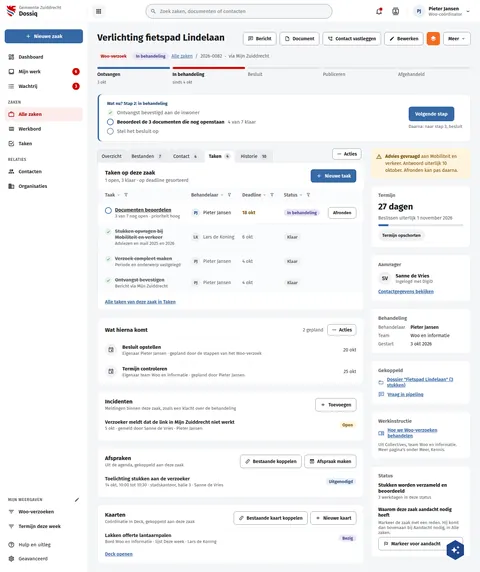
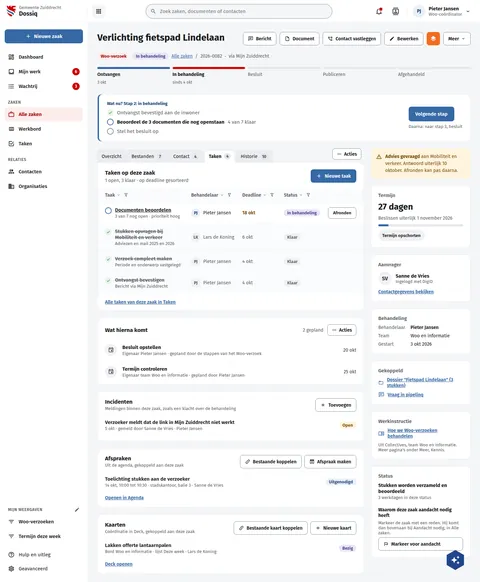
fix(screens): DqZaakTaken's Afspraken card links to the agenda under its rows
Live keeps "Openen in Agenda" on the appointments card, and the board left
it out. The board now draws it under the rows, as Kaarten draws "Deck
openen" (users keep features).

Assisted-by: ClaudeCode:claude-opus-5-5

diff --git a/preview/screens/boards/DqZaakTaken.html b/preview/screens/boards/DqZaakTaken.html
@@ -299,7 +299,7 @@ a{color:var(--sc-primary, #3669a5)}a:hover{color:var(--sc-primary-deep, #234a78)
                 </div>
               
             </section>
-<section style="background: #ffffff; border: 1px solid var(--sc-work-line, #e4e6ea); border-radius: 12px; padding: 20px 22px; display: flex; flex-direction: column; gap: 12px"><div style="display: flex; flex-wrap: wrap; justify-content: space-between; align-items: flex-start; gap: 10px"><div style="display: flex; flex-direction: column; gap: 2px; min-width: 0"><h2 style="margin: 0; font-size: 17px; font-weight: 700">Incidenten</h2><span style="font-size: 13px; color: var(--sc-work-muted, #5e6168)">Meldingen binnen deze zaak, zoals een klacht over de behandeling</span></div><button type="button" style="display: inline-flex; align-items: center; gap: 8px; height: 40px; padding: 0 14px; border-radius: 8px; border: 1px solid var(--sc-work-field, #828a95); background: #ffffff; color: var(--sc-work-ink, #1b1c1d); font: 600 14px var(--sc-font, 'Fira Sans'), sans-serif; white-space: nowrap"><svg width="16" height="16" viewbox="0 0 24 24" fill="currentColor" aria-hidden="true"><path d="M19,13H13V19H11V13H5V11H11V5H13V11H19V13Z"></path></svg>Toevoegen</button></div><ul style="margin: 0; padding: 0; list-style: none"><li style="display: flex; flex-wrap: wrap; gap: 6px 16px; align-items: center; padding: 10px 0; border-top: 1px solid var(--sc-work-soft, #eef0f3)"><span style="flex: 1 1 240px; display: flex; flex-direction: column; gap: 2px"><strong style="font-size: 15px; font-weight: 600">Verzoeker meldt dat de link in Mijn Zuiddrecht niet werkt</strong><span style="font-size: 13px; color: var(--sc-work-muted, #5e6168)">5 okt · gemeld door Sanne de Vries · Pieter Jansen</span></span><span style="padding: 3px 10px; border-radius: 12px; background: #fff4de; color: #7a4f00; font-size: 13px; font-weight: 600; white-space: nowrap">Open</span></li></ul></section><section style="background: #ffffff; border: 1px solid var(--sc-work-line, #e4e6ea); border-radius: 12px; padding: 20px 22px; display: flex; flex-direction: column; gap: 12px"><div style="display: flex; flex-wrap: wrap; justify-content: space-between; align-items: flex-start; gap: 10px"><div style="display: flex; flex-direction: column; gap: 2px; min-width: 0"><h2 style="margin: 0; font-size: 17px; font-weight: 700">Afspraken</h2><span style="font-size: 13px; color: var(--sc-work-muted, #5e6168)">Uit de agenda, gekoppeld aan deze zaak</span></div><span style="display: flex; flex-wrap: wrap; gap: 8px"><button type="button" style="display: inline-flex; align-items: center; gap: 8px; height: 40px; padding: 0 14px; border-radius: 8px; border: 1px solid var(--sc-work-field, #828a95); background: #ffffff; color: var(--sc-work-ink, #1b1c1d); font: 600 14px var(--sc-font, 'Fira Sans'), sans-serif; white-space: nowrap"><svg width="16" height="16" viewbox="0 0 24 24" fill="currentColor" aria-hidden="true"><path d="M10.59,13.41C11,13.8 11,14.44 10.59,14.83C10.2,15.22 9.56,15.22 9.17,14.83C7.22,12.88 7.22,9.71 9.17,7.76V7.76L12.71,4.22C14.66,2.27 17.83,2.27 19.78,4.22C21.73,6.17 21.73,9.34 19.78,11.29L18.29,12.78C18.3,11.96 18.17,11.14 17.89,10.36L18.36,9.88C19.54,8.71 19.54,6.81 18.36,5.64C17.19,4.46 15.29,4.46 14.12,5.64L10.59,9.17C9.41,10.34 9.41,12.24 10.59,13.41M13.41,9.17C13.8,8.78 14.44,8.78 14.83,9.17C16.78,11.12 16.78,14.29 14.83,16.24V16.24L11.29,19.78C9.34,21.73 6.17,21.73 4.22,19.78C2.27,17.83 2.27,14.66 4.22,12.71L5.71,11.22C5.7,12.04 5.83,12.86 6.11,13.65L5.64,14.12C4.46,15.29 4.46,17.19 5.64,18.36C6.81,19.54 8.71,19.54 9.88,18.36L13.41,14.83C14.59,13.66 14.59,11.76 13.41,10.59C13,10.2 13,9.56 13.41,9.17Z"></path></svg>Bestaande koppelen</button><button type="button" style="display: inline-flex; align-items: center; gap: 8px; height: 40px; padding: 0 14px; border-radius: 8px; border: 1px solid var(--sc-work-field, #828a95); background: #ffffff; color: var(--sc-work-ink, #1b1c1d); font: 600 14px var(--sc-font, 'Fira Sans'), sans-serif; white-space: nowrap"><svg width="16" height="16" viewbox="0 0 24 24" fill="currentColor" aria-hidden="true"><path d="M19 19V8H5V19H19M16 1H18V3H19C20.11 3 21 3.9 21 5V19C21 20.11 20.11 21 19 21H5C3.89 21 3 20.1 3 19V5C3 3.89 3.89 3 5 3H6V1H8V3H16V1M11 9.5H13V12.5H16V14.5H13V17.5H11V14.5H8V12.5H11V9.5Z"></path></svg>Afspraak maken</button></span></div><ul style="margin: 0; padding: 0; list-style: none"><li style="display: flex; flex-wrap: wrap; gap: 6px 16px; align-items: center; padding: 10px 0; border-top: 1px solid var(--sc-work-soft, #eef0f3)"><span style="flex: 1 1 240px; display: flex; flex-direction: column; gap: 2px"><strong style="font-size: 15px; font-weight: 600">Toelichting stukken aan de verzoeker</strong><span style="font-size: 13px; color: var(--sc-work-muted, #5e6168)">14 okt, 10:00 tot 10:30 · stadskantoor, balie 3 · Sanne de Vries</span></span><span style="padding: 3px 10px; border-radius: 12px; background: var(--sc-primary-light, #eaf0f7); color: var(--sc-primary-deep, #234a78); font-size: 13px; font-weight: 600; white-space: nowrap">Uitgenodigd</span></li></ul></section><section style="background: #ffffff; border: 1px solid var(--sc-work-line, #e4e6ea); border-radius: 12px; padding: 20px 22px; display: flex; flex-direction: column; gap: 12px"><div style="display: flex; flex-wrap: wrap; justify-content: space-between; align-items: flex-start; gap: 10px"><div style="display: flex; flex-direction: column; gap: 2px; min-width: 0"><h2 style="margin: 0; font-size: 17px; font-weight: 700">Kaarten</h2><span style="font-size: 13px; color: var(--sc-work-muted, #5e6168)">Coördinatie in Deck, gekoppeld aan deze zaak</span></div><span style="display: flex; flex-wrap: wrap; gap: 8px"><button type="button" style="display: inline-flex; align-items: center; gap: 8px; height: 40px; padding: 0 14px; border-radius: 8px; border: 1px solid var(--sc-work-field, #828a95); background: #ffffff; color: var(--sc-work-ink, #1b1c1d); font: 600 14px var(--sc-font, 'Fira Sans'), sans-serif; white-space: nowrap"><svg width="16" height="16" viewbox="0 0 24 24" fill="currentColor" aria-hidden="true"><path d="M10.59,13.41C11,13.8 11,14.44 10.59,14.83C10.2,15.22 9.56,15.22 9.17,14.83C7.22,12.88 7.22,9.71 9.17,7.76V7.76L12.71,4.22C14.66,2.27 17.83,2.27 19.78,4.22C21.73,6.17 21.73,9.34 19.78,11.29L18.29,12.78C18.3,11.96 18.17,11.14 17.89,10.36L18.36,9.88C19.54,8.71 19.54,6.81 18.36,5.64C17.19,4.46 15.29,4.46 14.12,5.64L10.59,9.17C9.41,10.34 9.41,12.24 10.59,13.41M13.41,9.17C13.8,8.78 14.44,8.78 14.83,9.17C16.78,11.12 16.78,14.29 14.83,16.24V16.24L11.29,19.78C9.34,21.73 6.17,21.73 4.22,19.78C2.27,17.83 2.27,14.66 4.22,12.71L5.71,11.22C5.7,12.04 5.83,12.86 6.11,13.65L5.64,14.12C4.46,15.29 4.46,17.19 5.64,18.36C6.81,19.54 8.71,19.54 9.88,18.36L13.41,14.83C14.59,13.66 14.59,11.76 13.41,10.59C13,10.2 13,9.56 13.41,9.17Z"></path></svg>Bestaande kaart koppelen</button><button type="button" style="display: inline-flex; align-items: center; gap: 8px; height: 40px; padding: 0 14px; border-radius: 8px; border: 1px solid var(--sc-work-field, #828a95); background: #ffffff; color: var(--sc-work-ink, #1b1c1d); font: 600 14px var(--sc-font, 'Fira Sans'), sans-serif; white-space: nowrap"><svg width="16" height="16" viewbox="0 0 24 24" fill="currentColor" aria-hidden="true"><path d="M19,13H13V19H11V13H5V11H11V5H13V11H19V13Z"></path></svg>Nieuwe kaart</button></span></div><ul style="margin: 0; padding: 0; list-style: none"><li style="display: flex; flex-wrap: wrap; gap: 6px 16px; align-items: center; padding: 10px 0; border-top: 1px solid var(--sc-work-soft, #eef0f3)"><span style="flex: 1 1 240px; display: flex; flex-direction: column; gap: 2px"><strong style="font-size: 15px; font-weight: 600">Lakken offerte lantaarnpalen</strong><span style="font-size: 13px; color: var(--sc-work-muted, #5e6168)">Bord Woo en informatie · lijst Deze week · Lars de Koning</span></span><span style="padding: 3px 10px; border-radius: 12px; background: #e8e6f6; color: #4a3f8f; font-size: 13px; font-weight: 600; white-space: nowrap">Bezig</span></li></ul><a href="#" style="font-size: 14px; font-weight: 600">Deck openen</a></section>
+<section style="background: #ffffff; border: 1px solid var(--sc-work-line, #e4e6ea); border-radius: 12px; padding: 20px 22px; display: flex; flex-direction: column; gap: 12px"><div style="display: flex; flex-wrap: wrap; justify-content: space-between; align-items: flex-start; gap: 10px"><div style="display: flex; flex-direction: column; gap: 2px; min-width: 0"><h2 style="margin: 0; font-size: 17px; font-weight: 700">Incidenten</h2><span style="font-size: 13px; color: var(--sc-work-muted, #5e6168)">Meldingen binnen deze zaak, zoals een klacht over de behandeling</span></div><button type="button" style="display: inline-flex; align-items: center; gap: 8px; height: 40px; padding: 0 14px; border-radius: 8px; border: 1px solid var(--sc-work-field, #828a95); background: #ffffff; color: var(--sc-work-ink, #1b1c1d); font: 600 14px var(--sc-font, 'Fira Sans'), sans-serif; white-space: nowrap"><svg width="16" height="16" viewbox="0 0 24 24" fill="currentColor" aria-hidden="true"><path d="M19,13H13V19H11V13H5V11H11V5H13V11H19V13Z"></path></svg>Toevoegen</button></div><ul style="margin: 0; padding: 0; list-style: none"><li style="display: flex; flex-wrap: wrap; gap: 6px 16px; align-items: center; padding: 10px 0; border-top: 1px solid var(--sc-work-soft, #eef0f3)"><span style="flex: 1 1 240px; display: flex; flex-direction: column; gap: 2px"><strong style="font-size: 15px; font-weight: 600">Verzoeker meldt dat de link in Mijn Zuiddrecht niet werkt</strong><span style="font-size: 13px; color: var(--sc-work-muted, #5e6168)">5 okt · gemeld door Sanne de Vries · Pieter Jansen</span></span><span style="padding: 3px 10px; border-radius: 12px; background: #fff4de; color: #7a4f00; font-size: 13px; font-weight: 600; white-space: nowrap">Open</span></li></ul></section><section style="background: #ffffff; border: 1px solid var(--sc-work-line, #e4e6ea); border-radius: 12px; padding: 20px 22px; display: flex; flex-direction: column; gap: 12px"><div style="display: flex; flex-wrap: wrap; justify-content: space-between; align-items: flex-start; gap: 10px"><div style="display: flex; flex-direction: column; gap: 2px; min-width: 0"><h2 style="margin: 0; font-size: 17px; font-weight: 700">Afspraken</h2><span style="font-size: 13px; color: var(--sc-work-muted, #5e6168)">Uit de agenda, gekoppeld aan deze zaak</span></div><span style="display: flex; flex-wrap: wrap; gap: 8px"><button type="button" style="display: inline-flex; align-items: center; gap: 8px; height: 40px; padding: 0 14px; border-radius: 8px; border: 1px solid var(--sc-work-field, #828a95); background: #ffffff; color: var(--sc-work-ink, #1b1c1d); font: 600 14px var(--sc-font, 'Fira Sans'), sans-serif; white-space: nowrap"><svg width="16" height="16" viewbox="0 0 24 24" fill="currentColor" aria-hidden="true"><path d="M10.59,13.41C11,13.8 11,14.44 10.59,14.83C10.2,15.22 9.56,15.22 9.17,14.83C7.22,12.88 7.22,9.71 9.17,7.76V7.76L12.71,4.22C14.66,2.27 17.83,2.27 19.78,4.22C21.73,6.17 21.73,9.34 19.78,11.29L18.29,12.78C18.3,11.96 18.17,11.14 17.89,10.36L18.36,9.88C19.54,8.71 19.54,6.81 18.36,5.64C17.19,4.46 15.29,4.46 14.12,5.64L10.59,9.17C9.41,10.34 9.41,12.24 10.59,13.41M13.41,9.17C13.8,8.78 14.44,8.78 14.83,9.17C16.78,11.12 16.78,14.29 14.83,16.24V16.24L11.29,19.78C9.34,21.73 6.17,21.73 4.22,19.78C2.27,17.83 2.27,14.66 4.22,12.71L5.71,11.22C5.7,12.04 5.83,12.86 6.11,13.65L5.64,14.12C4.46,15.29 4.46,17.19 5.64,18.36C6.81,19.54 8.71,19.54 9.88,18.36L13.41,14.83C14.59,13.66 14.59,11.76 13.41,10.59C13,10.2 13,9.56 13.41,9.17Z"></path></svg>Bestaande koppelen</button><button type="button" style="display: inline-flex; align-items: center; gap: 8px; height: 40px; padding: 0 14px; border-radius: 8px; border: 1px solid var(--sc-work-field, #828a95); background: #ffffff; color: var(--sc-work-ink, #1b1c1d); font: 600 14px var(--sc-font, 'Fira Sans'), sans-serif; white-space: nowrap"><svg width="16" height="16" viewbox="0 0 24 24" fill="currentColor" aria-hidden="true"><path d="M19 19V8H5V19H19M16 1H18V3H19C20.11 3 21 3.9 21 5V19C21 20.11 20.11 21 19 21H5C3.89 21 3 20.1 3 19V5C3 3.89 3.89 3 5 3H6V1H8V3H16V1M11 9.5H13V12.5H16V14.5H13V17.5H11V14.5H8V12.5H11V9.5Z"></path></svg>Afspraak maken</button></span></div><ul style="margin: 0; padding: 0; list-style: none"><li style="display: flex; flex-wrap: wrap; gap: 6px 16px; align-items: center; padding: 10px 0; border-top: 1px solid var(--sc-work-soft, #eef0f3)"><span style="flex: 1 1 240px; display: flex; flex-direction: column; gap: 2px"><strong style="font-size: 15px; font-weight: 600">Toelichting stukken aan de verzoeker</strong><span style="font-size: 13px; color: var(--sc-work-muted, #5e6168)">14 okt, 10:00 tot 10:30 · stadskantoor, balie 3 · Sanne de Vries</span></span><span style="padding: 3px 10px; border-radius: 12px; background: var(--sc-primary-light, #eaf0f7); color: var(--sc-primary-deep, #234a78); font-size: 13px; font-weight: 600; white-space: nowrap">Uitgenodigd</span></li></ul><a href="#" style="font-size: 14px; font-weight: 600">Openen in Agenda</a></section><section style="background: #ffffff; border: 1px solid var(--sc-work-line, #e4e6ea); border-radius: 12px; padding: 20px 22px; display: flex; flex-direction: column; gap: 12px"><div style="display: flex; flex-wrap: wrap; justify-content: space-between; align-items: flex-start; gap: 10px"><div style="display: flex; flex-direction: column; gap: 2px; min-width: 0"><h2 style="margin: 0; font-size: 17px; font-weight: 700">Kaarten</h2><span style="font-size: 13px; color: var(--sc-work-muted, #5e6168)">Coördinatie in Deck, gekoppeld aan deze zaak</span></div><span style="display: flex; flex-wrap: wrap; gap: 8px"><button type="button" style="display: inline-flex; align-items: center; gap: 8px; height: 40px; padding: 0 14px; border-radius: 8px; border: 1px solid var(--sc-work-field, #828a95); background: #ffffff; color: var(--sc-work-ink, #1b1c1d); font: 600 14px var(--sc-font, 'Fira Sans'), sans-serif; white-space: nowrap"><svg width="16" height="16" viewbox="0 0 24 24" fill="currentColor" aria-hidden="true"><path d="M10.59,13.41C11,13.8 11,14.44 10.59,14.83C10.2,15.22 9.56,15.22 9.17,14.83C7.22,12.88 7.22,9.71 9.17,7.76V7.76L12.71,4.22C14.66,2.27 17.83,2.27 19.78,4.22C21.73,6.17 21.73,9.34 19.78,11.29L18.29,12.78C18.3,11.96 18.17,11.14 17.89,10.36L18.36,9.88C19.54,8.71 19.54,6.81 18.36,5.64C17.19,4.46 15.29,4.46 14.12,5.64L10.59,9.17C9.41,10.34 9.41,12.24 10.59,13.41M13.41,9.17C13.8,8.78 14.44,8.78 14.83,9.17C16.78,11.12 16.78,14.29 14.83,16.24V16.24L11.29,19.78C9.34,21.73 6.17,21.73 4.22,19.78C2.27,17.83 2.27,14.66 4.22,12.71L5.71,11.22C5.7,12.04 5.83,12.86 6.11,13.65L5.64,14.12C4.46,15.29 4.46,17.19 5.64,18.36C6.81,19.54 8.71,19.54 9.88,18.36L13.41,14.83C14.59,13.66 14.59,11.76 13.41,10.59C13,10.2 13,9.56 13.41,9.17Z"></path></svg>Bestaande kaart koppelen</button><button type="button" style="display: inline-flex; align-items: center; gap: 8px; height: 40px; padding: 0 14px; border-radius: 8px; border: 1px solid var(--sc-work-field, #828a95); background: #ffffff; color: var(--sc-work-ink, #1b1c1d); font: 600 14px var(--sc-font, 'Fira Sans'), sans-serif; white-space: nowrap"><svg width="16" height="16" viewbox="0 0 24 24" fill="currentColor" aria-hidden="true"><path d="M19,13H13V19H11V13H5V11H11V5H13V11H19V13Z"></path></svg>Nieuwe kaart</button></span></div><ul style="margin: 0; padding: 0; list-style: none"><li style="display: flex; flex-wrap: wrap; gap: 6px 16px; align-items: center; padding: 10px 0; border-top: 1px solid var(--sc-work-soft, #eef0f3)"><span style="flex: 1 1 240px; display: flex; flex-direction: column; gap: 2px"><strong style="font-size: 15px; font-weight: 600">Lakken offerte lantaarnpalen</strong><span style="font-size: 13px; color: var(--sc-work-muted, #5e6168)">Bord Woo en informatie · lijst Deze week · Lars de Koning</span></span><span style="padding: 3px 10px; border-radius: 12px; background: #e8e6f6; color: #4a3f8f; font-size: 13px; font-weight: 600; white-space: nowrap">Bezig</span></li></ul><a href="#" style="font-size: 14px; font-weight: 600">Deck openen</a></section>
           </div>
 
           <aside style="flex: 1 1 300px; min-width: 0; display: flex; flex-direction: column; gap: 20px">

diff --git a/screens-src/zuiddrecht/DqZaakTaken.dc.html b/screens-src/zuiddrecht/DqZaakTaken.dc.html
@@ -119,7 +119,7 @@ a{color:#3669a5}a:hover{color:#234a78}
                 </div>
               </sc-for>
             </section>
-<section style="background: #ffffff; border: 1px solid #e4e6ea; border-radius: 12px; padding: 20px 22px; display: flex; flex-direction: column; gap: 12px"><div style="display: flex; flex-wrap: wrap; justify-content: space-between; align-items: flex-start; gap: 10px"><div style="display: flex; flex-direction: column; gap: 2px; min-width: 0"><h2 style="margin: 0; font-size: 17px; font-weight: 700">Incidenten</h2><span style="font-size: 13px; color: #5e6168">Meldingen binnen deze zaak, zoals een klacht over de behandeling</span></div><button type="button" style="display: inline-flex; align-items: center; gap: 8px; height: 40px; padding: 0 14px; border-radius: 8px; border: 1px solid #828a95; background: #ffffff; color: #1b1c1d; font: 600 14px 'Fira Sans', sans-serif; white-space: nowrap"><svg width="16" height="16" viewBox="0 0 24 24" fill="currentColor" aria-hidden="true"><path d="M19,13H13V19H11V13H5V11H11V5H13V11H19V13Z"></path></svg>Toevoegen</button></div><ul style="margin: 0; padding: 0; list-style: none"><li style="display: flex; flex-wrap: wrap; gap: 6px 16px; align-items: center; padding: 10px 0; border-top: 1px solid #eef0f3"><span style="flex: 1 1 240px; display: flex; flex-direction: column; gap: 2px"><strong style="font-size: 15px; font-weight: 600">Verzoeker meldt dat de link in Mijn Zuiddrecht niet werkt</strong><span style="font-size: 13px; color: #5e6168">5 okt · gemeld door Sanne de Vries · Pieter Jansen</span></span><span style="padding: 3px 10px; border-radius: 12px; background: #fff4de; color: #7a4f00; font-size: 13px; font-weight: 600; white-space: nowrap">Open</span></li></ul></section><section style="background: #ffffff; border: 1px solid #e4e6ea; border-radius: 12px; padding: 20px 22px; display: flex; flex-direction: column; gap: 12px"><div style="display: flex; flex-wrap: wrap; justify-content: space-between; align-items: flex-start; gap: 10px"><div style="display: flex; flex-direction: column; gap: 2px; min-width: 0"><h2 style="margin: 0; font-size: 17px; font-weight: 700">Afspraken</h2><span style="font-size: 13px; color: #5e6168">Uit de agenda, gekoppeld aan deze zaak</span></div><span style="display: flex; flex-wrap: wrap; gap: 8px"><button type="button" style="display: inline-flex; align-items: center; gap: 8px; height: 40px; padding: 0 14px; border-radius: 8px; border: 1px solid #828a95; background: #ffffff; color: #1b1c1d; font: 600 14px 'Fira Sans', sans-serif; white-space: nowrap"><svg width="16" height="16" viewBox="0 0 24 24" fill="currentColor" aria-hidden="true"><path d="M10.59,13.41C11,13.8 11,14.44 10.59,14.83C10.2,15.22 9.56,15.22 9.17,14.83C7.22,12.88 7.22,9.71 9.17,7.76V7.76L12.71,4.22C14.66,2.27 17.83,2.27 19.78,4.22C21.73,6.17 21.73,9.34 19.78,11.29L18.29,12.78C18.3,11.96 18.17,11.14 17.89,10.36L18.36,9.88C19.54,8.71 19.54,6.81 18.36,5.64C17.19,4.46 15.29,4.46 14.12,5.64L10.59,9.17C9.41,10.34 9.41,12.24 10.59,13.41M13.41,9.17C13.8,8.78 14.44,8.78 14.83,9.17C16.78,11.12 16.78,14.29 14.83,16.24V16.24L11.29,19.78C9.34,21.73 6.17,21.73 4.22,19.78C2.27,17.83 2.27,14.66 4.22,12.71L5.71,11.22C5.7,12.04 5.83,12.86 6.11,13.65L5.64,14.12C4.46,15.29 4.46,17.19 5.64,18.36C6.81,19.54 8.71,19.54 9.88,18.36L13.41,14.83C14.59,13.66 14.59,11.76 13.41,10.59C13,10.2 13,9.56 13.41,9.17Z"></path></svg>Bestaande koppelen</button><button type="button" style="display: inline-flex; align-items: center; gap: 8px; height: 40px; padding: 0 14px; border-radius: 8px; border: 1px solid #828a95; background: #ffffff; color: #1b1c1d; font: 600 14px 'Fira Sans', sans-serif; white-space: nowrap"><svg width="16" height="16" viewBox="0 0 24 24" fill="currentColor" aria-hidden="true"><path d="M19 19V8H5V19H19M16 1H18V3H19C20.11 3 21 3.9 21 5V19C21 20.11 20.11 21 19 21H5C3.89 21 3 20.1 3 19V5C3 3.89 3.89 3 5 3H6V1H8V3H16V1M11 9.5H13V12.5H16V14.5H13V17.5H11V14.5H8V12.5H11V9.5Z"></path></svg>Afspraak maken</button></span></div><ul style="margin: 0; padding: 0; list-style: none"><li style="display: flex; flex-wrap: wrap; gap: 6px 16px; align-items: center; padding: 10px 0; border-top: 1px solid #eef0f3"><span style="flex: 1 1 240px; display: flex; flex-direction: column; gap: 2px"><strong style="font-size: 15px; font-weight: 600">Toelichting stukken aan de verzoeker</strong><span style="font-size: 13px; color: #5e6168">14 okt, 10:00 tot 10:30 · stadskantoor, balie 3 · Sanne de Vries</span></span><span style="padding: 3px 10px; border-radius: 12px; background: #eaf0f7; color: #234a78; font-size: 13px; font-weight: 600; white-space: nowrap">Uitgenodigd</span></li></ul></section><section style="background: #ffffff; border: 1px solid #e4e6ea; border-radius: 12px; padding: 20px 22px; display: flex; flex-direction: column; gap: 12px"><div style="display: flex; flex-wrap: wrap; justify-content: space-between; align-items: flex-start; gap: 10px"><div style="display: flex; flex-direction: column; gap: 2px; min-width: 0"><h2 style="margin: 0; font-size: 17px; font-weight: 700">Kaarten</h2><span style="font-size: 13px; color: #5e6168">Coördinatie in Deck, gekoppeld aan deze zaak</span></div><span style="display: flex; flex-wrap: wrap; gap: 8px"><button type="button" style="display: inline-flex; align-items: center; gap: 8px; height: 40px; padding: 0 14px; border-radius: 8px; border: 1px solid #828a95; background: #ffffff; color: #1b1c1d; font: 600 14px 'Fira Sans', sans-serif; white-space: nowrap"><svg width="16" height="16" viewBox="0 0 24 24" fill="currentColor" aria-hidden="true"><path d="M10.59,13.41C11,13.8 11,14.44 10.59,14.83C10.2,15.22 9.56,15.22 9.17,14.83C7.22,12.88 7.22,9.71 9.17,7.76V7.76L12.71,4.22C14.66,2.27 17.83,2.27 19.78,4.22C21.73,6.17 21.73,9.34 19.78,11.29L18.29,12.78C18.3,11.96 18.17,11.14 17.89,10.36L18.36,9.88C19.54,8.71 19.54,6.81 18.36,5.64C17.19,4.46 15.29,4.46 14.12,5.64L10.59,9.17C9.41,10.34 9.41,12.24 10.59,13.41M13.41,9.17C13.8,8.78 14.44,8.78 14.83,9.17C16.78,11.12 16.78,14.29 14.83,16.24V16.24L11.29,19.78C9.34,21.73 6.17,21.73 4.22,19.78C2.27,17.83 2.27,14.66 4.22,12.71L5.71,11.22C5.7,12.04 5.83,12.86 6.11,13.65L5.64,14.12C4.46,15.29 4.46,17.19 5.64,18.36C6.81,19.54 8.71,19.54 9.88,18.36L13.41,14.83C14.59,13.66 14.59,11.76 13.41,10.59C13,10.2 13,9.56 13.41,9.17Z"></path></svg>Bestaande kaart koppelen</button><button type="button" style="display: inline-flex; align-items: center; gap: 8px; height: 40px; padding: 0 14px; border-radius: 8px; border: 1px solid #828a95; background: #ffffff; color: #1b1c1d; font: 600 14px 'Fira Sans', sans-serif; white-space: nowrap"><svg width="16" height="16" viewBox="0 0 24 24" fill="currentColor" aria-hidden="true"><path d="M19,13H13V19H11V13H5V11H11V5H13V11H19V13Z"></path></svg>Nieuwe kaart</button></span></div><ul style="margin: 0; padding: 0; list-style: none"><li style="display: flex; flex-wrap: wrap; gap: 6px 16px; align-items: center; padding: 10px 0; border-top: 1px solid #eef0f3"><span style="flex: 1 1 240px; display: flex; flex-direction: column; gap: 2px"><strong style="font-size: 15px; font-weight: 600">Lakken offerte lantaarnpalen</strong><span style="font-size: 13px; color: #5e6168">Bord Woo en informatie · lijst Deze week · Lars de Koning</span></span><span style="padding: 3px 10px; border-radius: 12px; background: #e8e6f6; color: #4a3f8f; font-size: 13px; font-weight: 600; white-space: nowrap">Bezig</span></li></ul><a href="#" style="font-size: 14px; font-weight: 600">Deck openen</a></section>
+<section style="background: #ffffff; border: 1px solid #e4e6ea; border-radius: 12px; padding: 20px 22px; display: flex; flex-direction: column; gap: 12px"><div style="display: flex; flex-wrap: wrap; justify-content: space-between; align-items: flex-start; gap: 10px"><div style="display: flex; flex-direction: column; gap: 2px; min-width: 0"><h2 style="margin: 0; font-size: 17px; font-weight: 700">Incidenten</h2><span style="font-size: 13px; color: #5e6168">Meldingen binnen deze zaak, zoals een klacht over de behandeling</span></div><button type="button" style="display: inline-flex; align-items: center; gap: 8px; height: 40px; padding: 0 14px; border-radius: 8px; border: 1px solid #828a95; background: #ffffff; color: #1b1c1d; font: 600 14px 'Fira Sans', sans-serif; white-space: nowrap"><svg width="16" height="16" viewBox="0 0 24 24" fill="currentColor" aria-hidden="true"><path d="M19,13H13V19H11V13H5V11H11V5H13V11H19V13Z"></path></svg>Toevoegen</button></div><ul style="margin: 0; padding: 0; list-style: none"><li style="display: flex; flex-wrap: wrap; gap: 6px 16px; align-items: center; padding: 10px 0; border-top: 1px solid #eef0f3"><span style="flex: 1 1 240px; display: flex; flex-direction: column; gap: 2px"><strong style="font-size: 15px; font-weight: 600">Verzoeker meldt dat de link in Mijn Zuiddrecht niet werkt</strong><span style="font-size: 13px; color: #5e6168">5 okt · gemeld door Sanne de Vries · Pieter Jansen</span></span><span style="padding: 3px 10px; border-radius: 12px; background: #fff4de; color: #7a4f00; font-size: 13px; font-weight: 600; white-space: nowrap">Open</span></li></ul></section><section style="background: #ffffff; border: 1px solid #e4e6ea; border-radius: 12px; padding: 20px 22px; display: flex; flex-direction: column; gap: 12px"><div style="display: flex; flex-wrap: wrap; justify-content: space-between; align-items: flex-start; gap: 10px"><div style="display: flex; flex-direction: column; gap: 2px; min-width: 0"><h2 style="margin: 0; font-size: 17px; font-weight: 700">Afspraken</h2><span style="font-size: 13px; color: #5e6168">Uit de agenda, gekoppeld aan deze zaak</span></div><span style="display: flex; flex-wrap: wrap; gap: 8px"><button type="button" style="display: inline-flex; align-items: center; gap: 8px; height: 40px; padding: 0 14px; border-radius: 8px; border: 1px solid #828a95; background: #ffffff; color: #1b1c1d; font: 600 14px 'Fira Sans', sans-serif; white-space: nowrap"><svg width="16" height="16" viewBox="0 0 24 24" fill="currentColor" aria-hidden="true"><path d="M10.59,13.41C11,13.8 11,14.44 10.59,14.83C10.2,15.22 9.56,15.22 9.17,14.83C7.22,12.88 7.22,9.71 9.17,7.76V7.76L12.71,4.22C14.66,2.27 17.83,2.27 19.78,4.22C21.73,6.17 21.73,9.34 19.78,11.29L18.29,12.78C18.3,11.96 18.17,11.14 17.89,10.36L18.36,9.88C19.54,8.71 19.54,6.81 18.36,5.64C17.19,4.46 15.29,4.46 14.12,5.64L10.59,9.17C9.41,10.34 9.41,12.24 10.59,13.41M13.41,9.17C13.8,8.78 14.44,8.78 14.83,9.17C16.78,11.12 16.78,14.29 14.83,16.24V16.24L11.29,19.78C9.34,21.73 6.17,21.73 4.22,19.78C2.27,17.83 2.27,14.66 4.22,12.71L5.71,11.22C5.7,12.04 5.83,12.86 6.11,13.65L5.64,14.12C4.46,15.29 4.46,17.19 5.64,18.36C6.81,19.54 8.71,19.54 9.88,18.36L13.41,14.83C14.59,13.66 14.59,11.76 13.41,10.59C13,10.2 13,9.56 13.41,9.17Z"></path></svg>Bestaande koppelen</button><button type="button" style="display: inline-flex; align-items: center; gap: 8px; height: 40px; padding: 0 14px; border-radius: 8px; border: 1px solid #828a95; background: #ffffff; color: #1b1c1d; font: 600 14px 'Fira Sans', sans-serif; white-space: nowrap"><svg width="16" height="16" viewBox="0 0 24 24" fill="currentColor" aria-hidden="true"><path d="M19 19V8H5V19H19M16 1H18V3H19C20.11 3 21 3.9 21 5V19C21 20.11 20.11 21 19 21H5C3.89 21 3 20.1 3 19V5C3 3.89 3.89 3 5 3H6V1H8V3H16V1M11 9.5H13V12.5H16V14.5H13V17.5H11V14.5H8V12.5H11V9.5Z"></path></svg>Afspraak maken</button></span></div><ul style="margin: 0; padding: 0; list-style: none"><li style="display: flex; flex-wrap: wrap; gap: 6px 16px; align-items: center; padding: 10px 0; border-top: 1px solid #eef0f3"><span style="flex: 1 1 240px; display: flex; flex-direction: column; gap: 2px"><strong style="font-size: 15px; font-weight: 600">Toelichting stukken aan de verzoeker</strong><span style="font-size: 13px; color: #5e6168">14 okt, 10:00 tot 10:30 · stadskantoor, balie 3 · Sanne de Vries</span></span><span style="padding: 3px 10px; border-radius: 12px; background: #eaf0f7; color: #234a78; font-size: 13px; font-weight: 600; white-space: nowrap">Uitgenodigd</span></li></ul><a href="#" style="font-size: 14px; font-weight: 600">Openen in Agenda</a></section><section style="background: #ffffff; border: 1px solid #e4e6ea; border-radius: 12px; padding: 20px 22px; display: flex; flex-direction: column; gap: 12px"><div style="display: flex; flex-wrap: wrap; justify-content: space-between; align-items: flex-start; gap: 10px"><div style="display: flex; flex-direction: column; gap: 2px; min-width: 0"><h2 style="margin: 0; font-size: 17px; font-weight: 700">Kaarten</h2><span style="font-size: 13px; color: #5e6168">Coördinatie in Deck, gekoppeld aan deze zaak</span></div><span style="display: flex; flex-wrap: wrap; gap: 8px"><button type="button" style="display: inline-flex; align-items: center; gap: 8px; height: 40px; padding: 0 14px; border-radius: 8px; border: 1px solid #828a95; background: #ffffff; color: #1b1c1d; font: 600 14px 'Fira Sans', sans-serif; white-space: nowrap"><svg width="16" height="16" viewBox="0 0 24 24" fill="currentColor" aria-hidden="true"><path d="M10.59,13.41C11,13.8 11,14.44 10.59,14.83C10.2,15.22 9.56,15.22 9.17,14.83C7.22,12.88 7.22,9.71 9.17,7.76V7.76L12.71,4.22C14.66,2.27 17.83,2.27 19.78,4.22C21.73,6.17 21.73,9.34 19.78,11.29L18.29,12.78C18.3,11.96 18.17,11.14 17.89,10.36L18.36,9.88C19.54,8.71 19.54,6.81 18.36,5.64C17.19,4.46 15.29,4.46 14.12,5.64L10.59,9.17C9.41,10.34 9.41,12.24 10.59,13.41M13.41,9.17C13.8,8.78 14.44,8.78 14.83,9.17C16.78,11.12 16.78,14.29 14.83,16.24V16.24L11.29,19.78C9.34,21.73 6.17,21.73 4.22,19.78C2.27,17.83 2.27,14.66 4.22,12.71L5.71,11.22C5.7,12.04 5.83,12.86 6.11,13.65L5.64,14.12C4.46,15.29 4.46,17.19 5.64,18.36C6.81,19.54 8.71,19.54 9.88,18.36L13.41,14.83C14.59,13.66 14.59,11.76 13.41,10.59C13,10.2 13,9.56 13.41,9.17Z"></path></svg>Bestaande kaart koppelen</button><button type="button" style="display: inline-flex; align-items: center; gap: 8px; height: 40px; padding: 0 14px; border-radius: 8px; border: 1px solid #828a95; background: #ffffff; color: #1b1c1d; font: 600 14px 'Fira Sans', sans-serif; white-space: nowrap"><svg width="16" height="16" viewBox="0 0 24 24" fill="currentColor" aria-hidden="true"><path d="M19,13H13V19H11V13H5V11H11V5H13V11H19V13Z"></path></svg>Nieuwe kaart</button></span></div><ul style="margin: 0; padding: 0; list-style: none"><li style="display: flex; flex-wrap: wrap; gap: 6px 16px; align-items: center; padding: 10px 0; border-top: 1px solid #eef0f3"><span style="flex: 1 1 240px; display: flex; flex-direction: column; gap: 2px"><strong style="font-size: 15px; font-weight: 600">Lakken offerte lantaarnpalen</strong><span style="font-size: 13px; color: #5e6168">Bord Woo en informatie · lijst Deze week · Lars de Koning</span></span><span style="padding: 3px 10px; border-radius: 12px; background: #e8e6f6; color: #4a3f8f; font-size: 13px; font-weight: 600; white-space: nowrap">Bezig</span></li></ul><a href="#" style="font-size: 14px; font-weight: 600">Deck openen</a></section>
           </div>
 
           <aside style="flex: 1 1 300px; min-width: 0; display: flex; flex-direction: column; gap: 20px">
